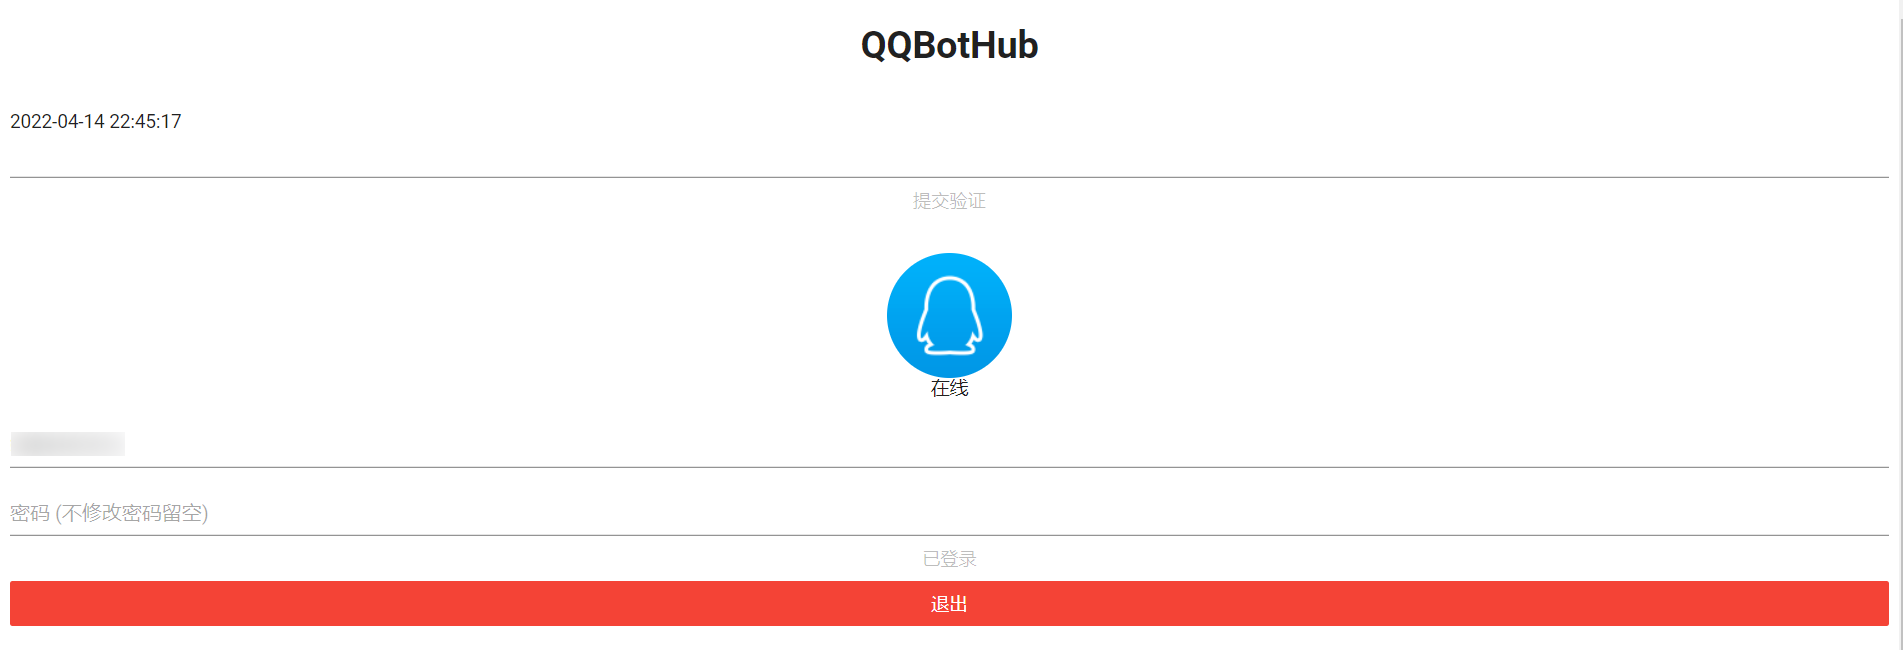
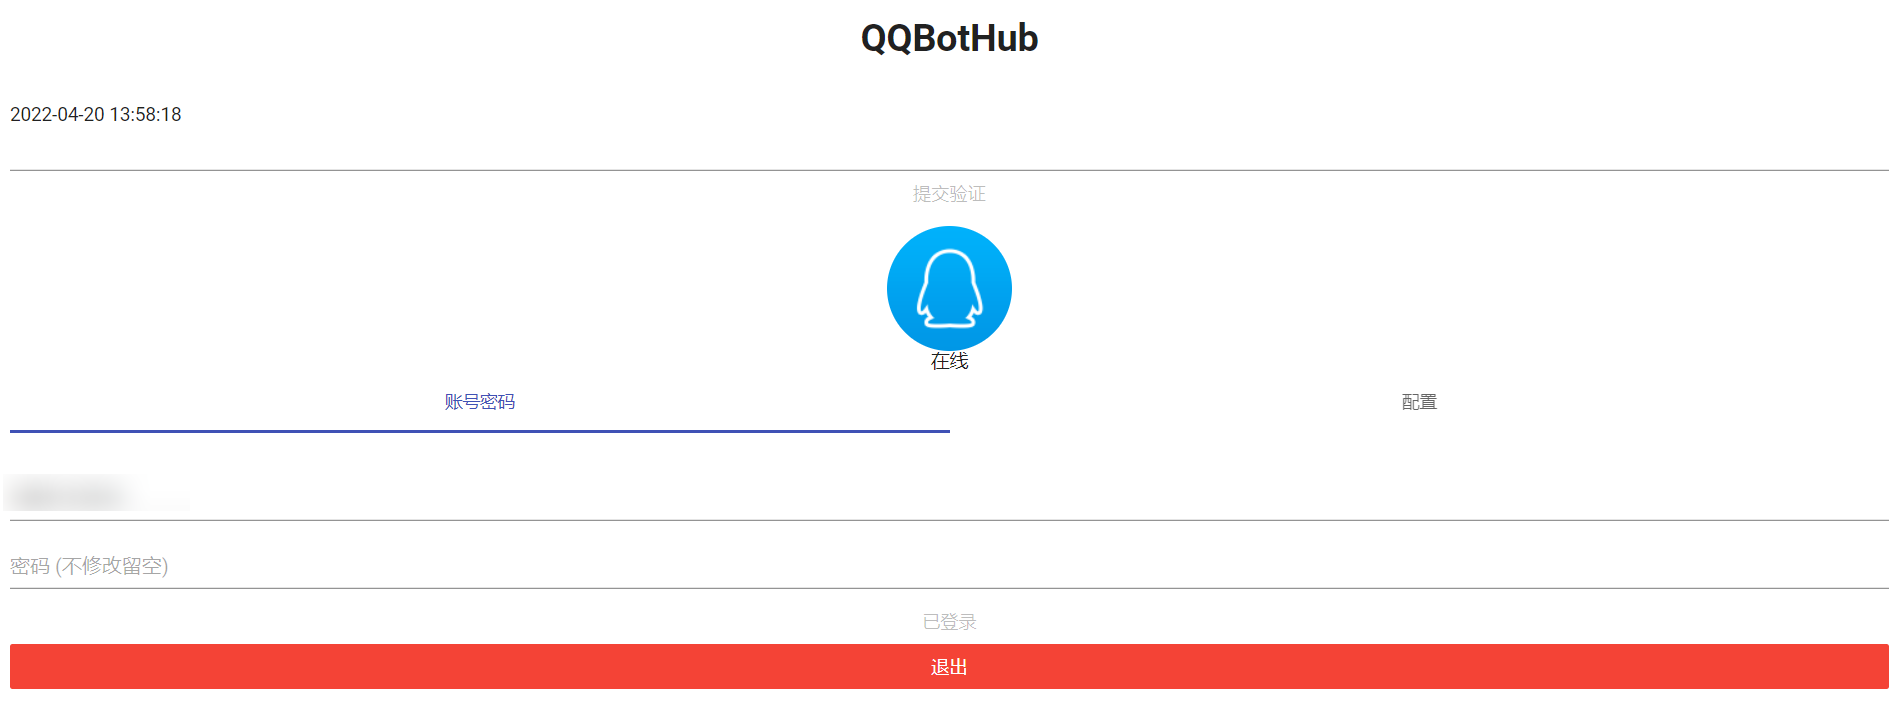
docs(screenshots,readme.md): screenshots

diff --git a/README.md b/README.md
@@ -50,6 +50,8 @@ QQ 机器人 | 基于 [Konata.Core](https://github.com/KonataDev/Konata.Core) | 
 
 ## Screenshots
 
+![PluginCore Admin](./screenshots/PluginCore-Admin.png)
+
 ![qq_online.png](./screenshots/qq_online.png)
 
 ### [QQStatPlugin](https://github.com/yiyungent/QQBotHub/releases?q=QQStatPlugin&expanded=true)
